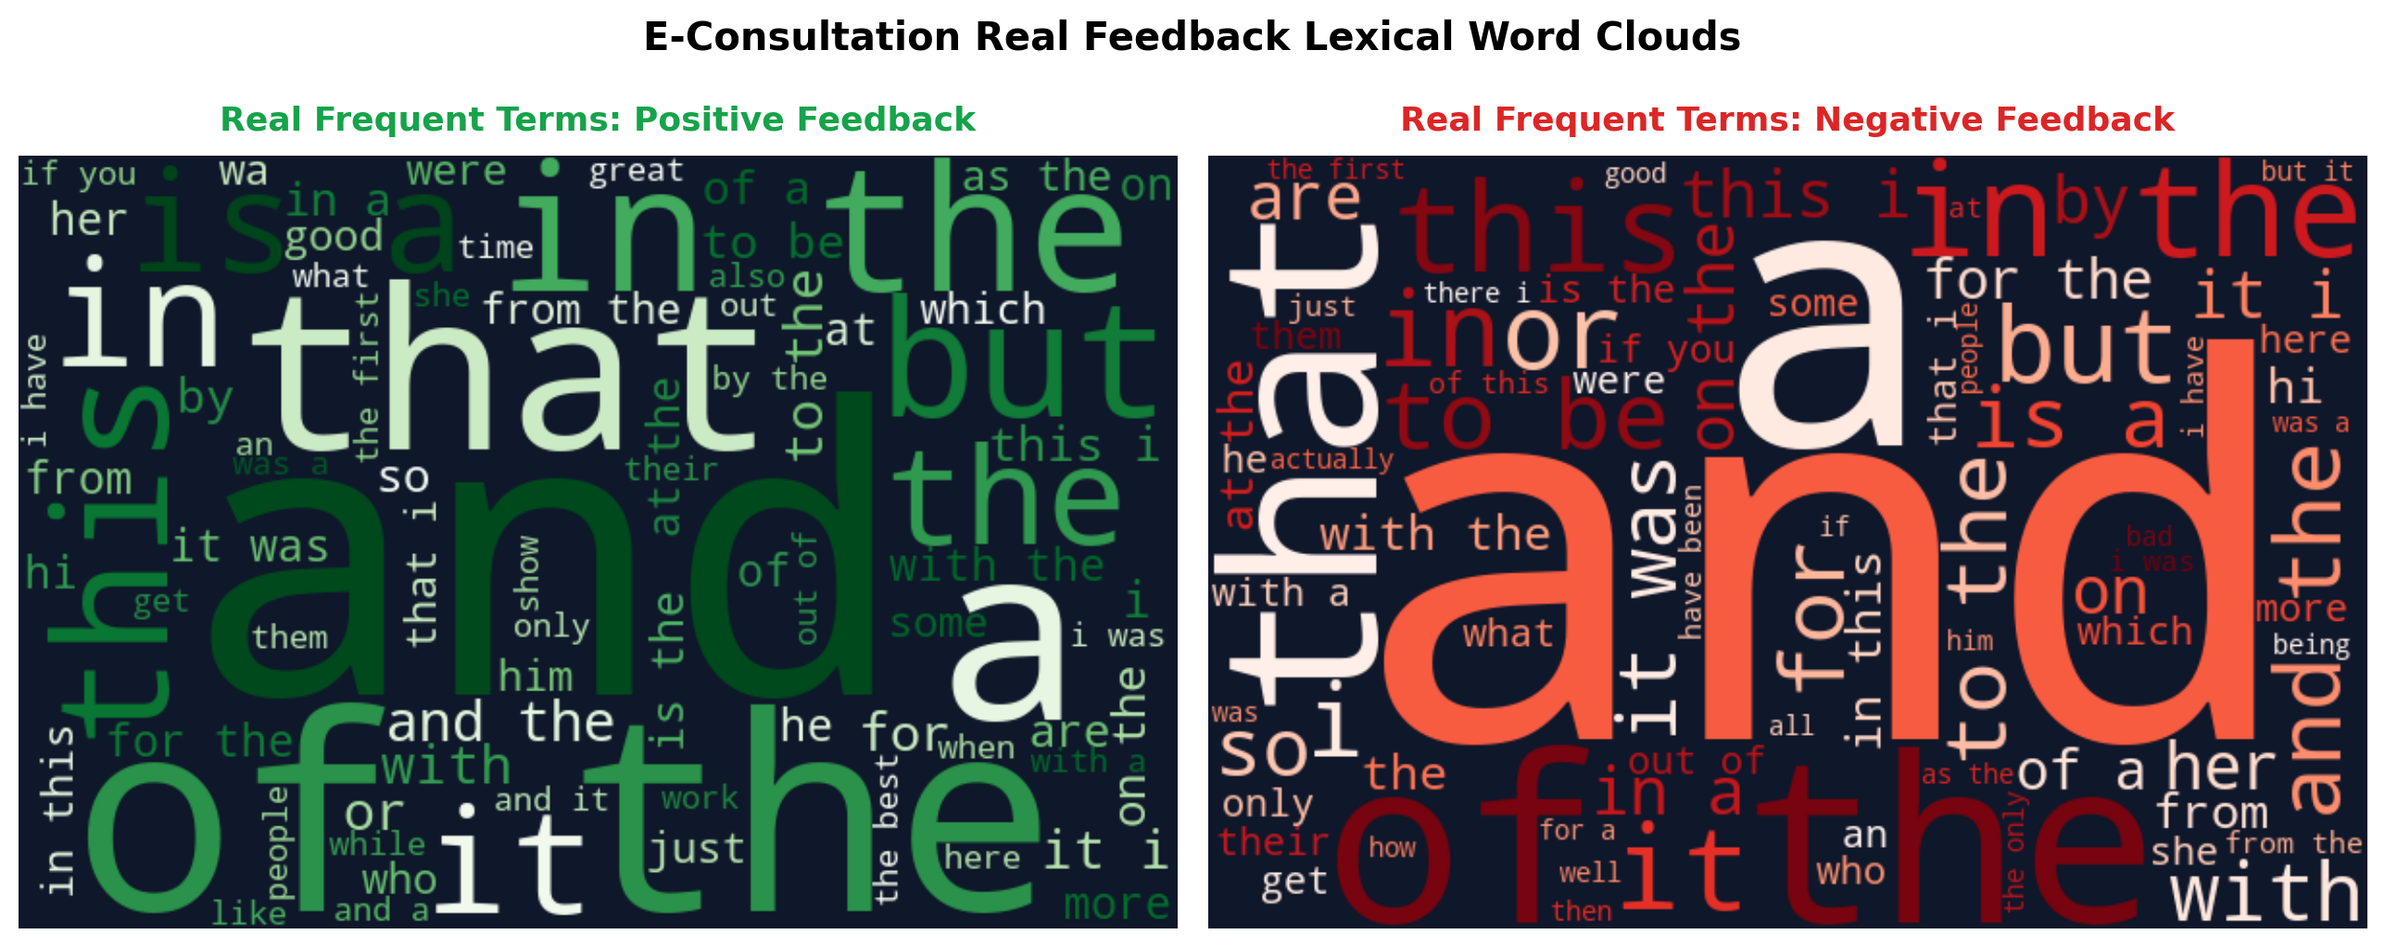
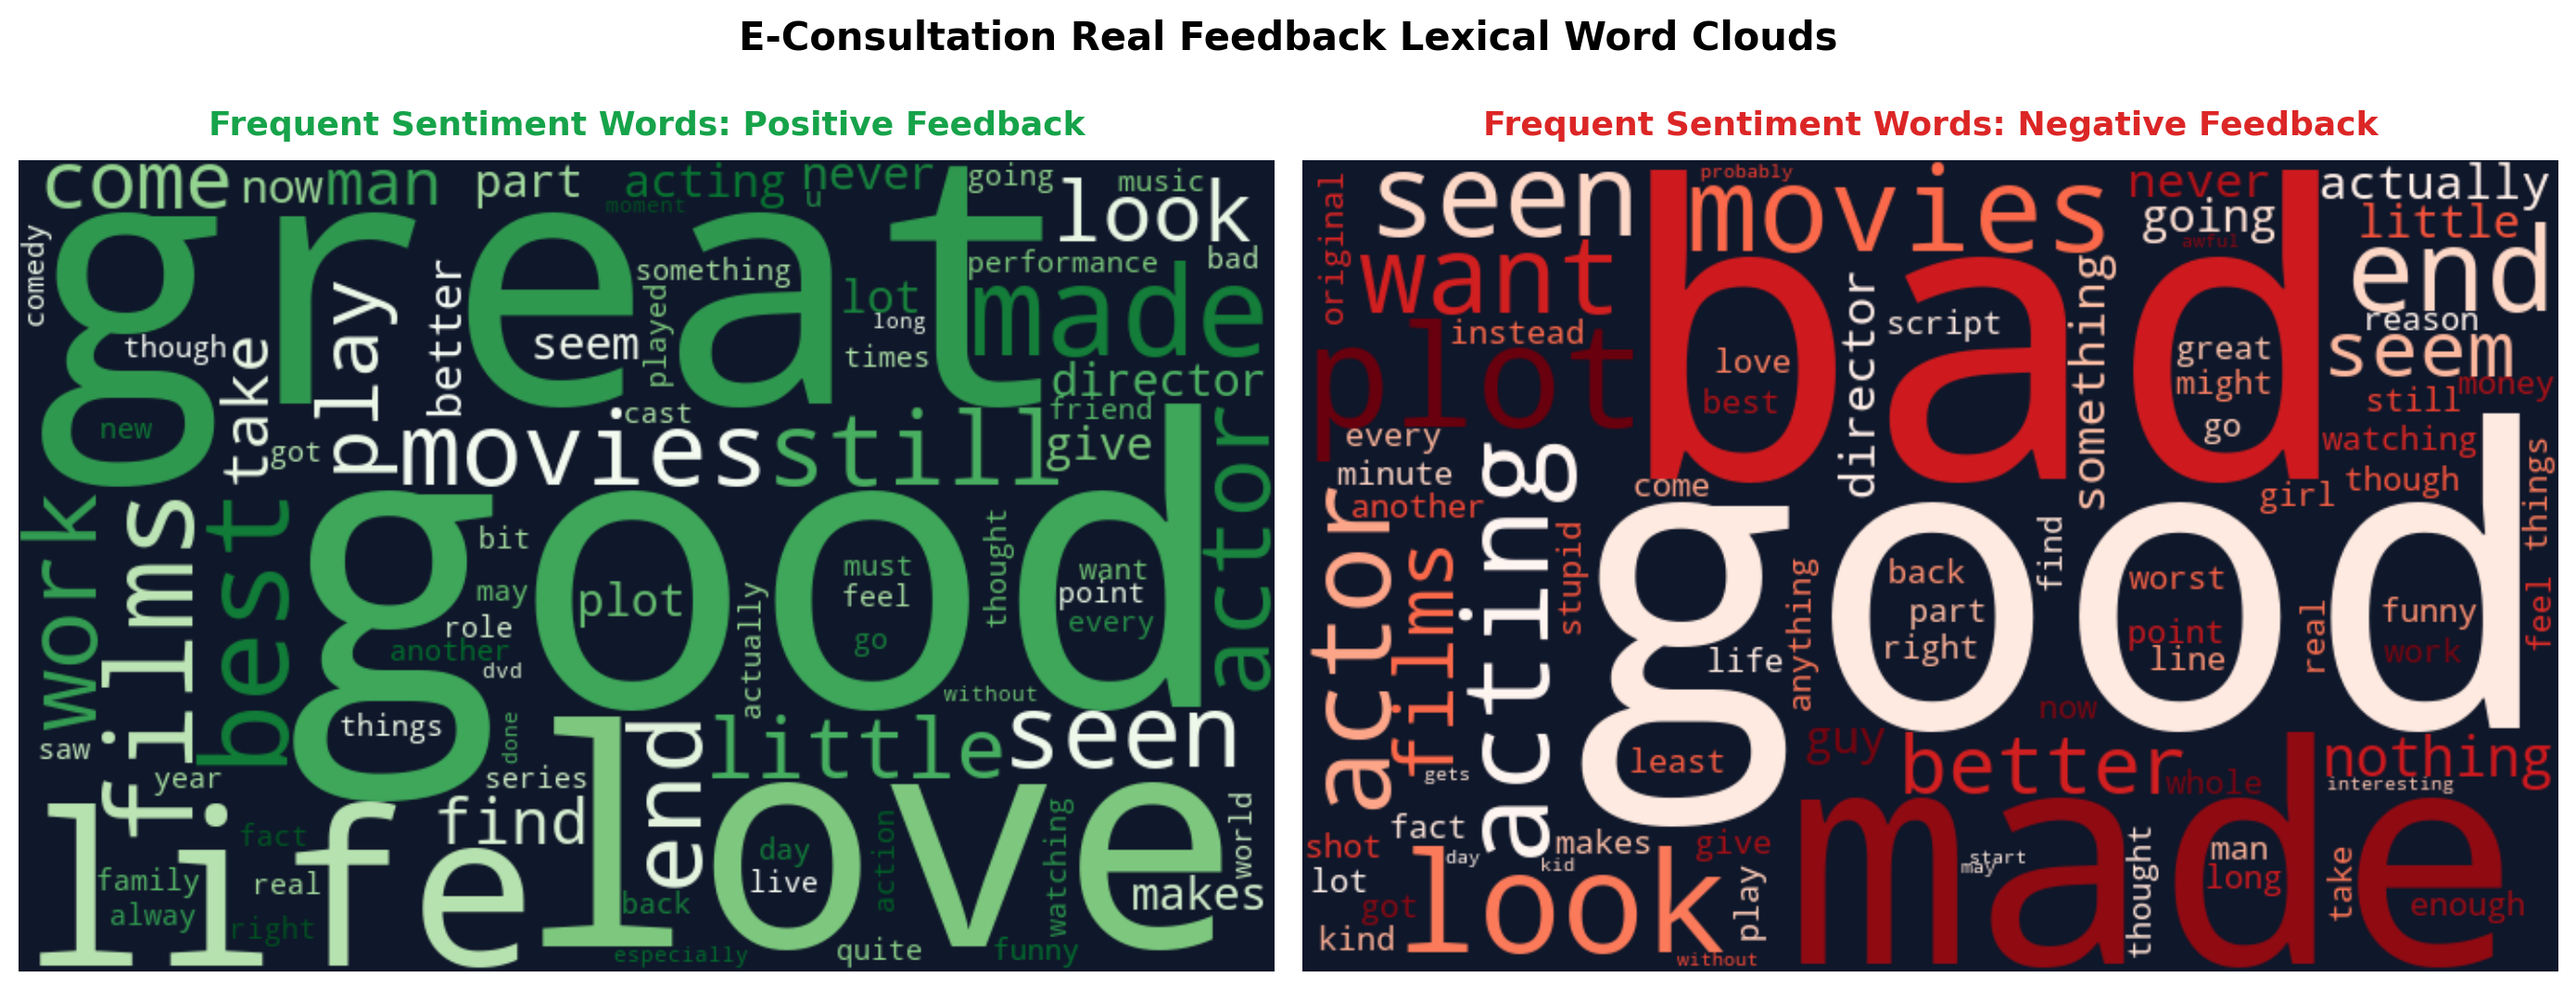
Replace deprecated use_column_width with use_container_width and clean wordcloud stopwords

diff --git a/evaluate_and_generate_real_plots.py b/evaluate_and_generate_real_plots.py
@@ -89,8 +89,13 @@ print("[RealEval] 2. Extracting real text for word clouds...")
 pos_comments = " ".join(df[df["sentiment"] == "positive"]["comment"].sample(min(2000, (df["sentiment"]=="positive").sum()), random_state=42).astype(str))
 neg_comments = " ".join(df[df["sentiment"] == "negative"]["comment"].sample(min(2000, (df["sentiment"]=="negative").sum()), random_state=42).astype(str))
 
-# Basic stopword cleaning for word clouds
-custom_stops = {"film", "movie", "one", "br", "see", "make", "even", "story", "character", "characters", "really", "scene", "scenes"}
+# Comprehensive stopword cleaning for word clouds
+from wordcloud import STOPWORDS
+custom_stops = set(STOPWORDS).union({
+    "film", "movie", "one", "br", "see", "make", "even", "story",
+    "character", "characters", "really", "scene", "scenes", "show", "watch",
+    "will", "people", "way", "much", "well", "thing", "think", "first", "also"
+})
 
 wc_pos = WordCloud(
     width=600, height=400,

diff --git a/app.py b/app.py
@@ -723,7 +723,7 @@ elif "📈 Training Plots" in page:
                 st.markdown(f"**{title}**")
                 try:
                     img = Image.open(path)
-                    st.image(img, use_column_width=True)
+                    st.image(img, use_container_width=True)
                 except Exception:
                     st.error(f"Could not load: {fname}")
                 st.markdown("<br>", unsafe_allow_html=True)
